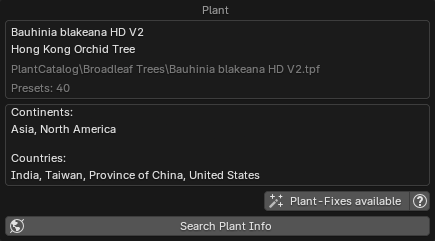
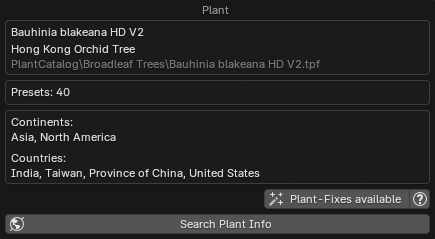
1.1.6

diff --git a/docs/extra/extra.css b/docs/extra/extra.css
@@ -46,9 +46,13 @@ h5 {
 /* ######## </ MOBILE > ######## */
 
 
-/* ######## < SHOP BUTTONS > ######## */
+/* ######## < BUTTONS > ######## */
 .md-typeset .md-button--stretch {
   width: 99%;
+  text-align: center;
+}
+.md-typeset .md-button--social {
+  width: 15em;
   text-align: center;
 }
 /* Gumroad */
@@ -59,12 +63,8 @@ h5 {
 .md-button:hover .gumroad {
   color: rgb(31, 31, 31);
 }
-/* ######## </ SHOP BUTTONS > ######## */
+/* ######## </ BUTTONS > ######## */
 
-.md-typeset .md-button--social {
-  width: 15em;
-  text-align: center;
-}
 
 /* ######## < GRID > ######## */
 /* Light mode */

diff --git a/docs/workflow/import_settings.md b/docs/workflow/import_settings.md
@@ -7,23 +7,48 @@ These settings are shared between both Import modes.
 - **Pack Textures**: Packs the textures of the imported plants into the current Blend file ensuring that your plants retain their appearance without the need for external texture files. **Cannot be disabled**.
 - **Mark as Asset**: Marks imported plants as assets, making them easily accessible in Blender's Asset Browser for future use.
     - When enabled, the asset will automatically have tags and metadata added for better organization and searchability within the Blender Asset Library. These include:
-        - Plant name (Latin & English, if available), Preset Description, Preset Name, Maturity, Health, Season, Height, Seed, LOD.
+        - Plant name (Latin & English, if available), Preset Description, Preset Name, Maturity, Health, Season, Height, Seed, Detail Level, LOD.
     !!! inline abstract "Asset Tags Example"
         ![Asset Tags Example](../images/mark_as_asset-tags.webp){ .img-box .on-glb }
 
     <div style="clear:both"></div>
 
 - **Merge duplicate Materials**: When enabled, this option ensures that imported plants reuse existing materials in the scene if names match (e.g. Leaf, Bark). This prevents Blender from generating duplicates like Leaf.001, helping maintain a cleaner and more organized material list across multiple imports.
+- **Categorize into Collections**: Automatically place imported plants into sub-collections (e.g. Broadleaf Trees, Bushes, Grass) for easier scene organization.
+
+    !!! inline abstract "Categories Example"
+        ![Asset Tags Example](../images/categorize-into-collections.webp){ .img-box .on-glb }
+
+    <div style="clear:both"></div>
+
 - **Use a custom Export path**: Set a custom export path if you need to access the files exported from PlantFactory. If this setting is not enabled, the exported files will be removed from their temporary location once they are imported into Blender.
-- **Grid Spacing**: Controls the distance between plants in the import grid when importing multiple plants at once. When importing more than 10 plants, new rows are automatically created, and if `Import Extra LODs` is enabled, each LOD will be placed on its own row.
-    - Small
-    - Medium
-    - Large
+- **Grid Spacing**: Controls the spacing multiplier between plants in the import grid when importing multiple plants at once.
+    - **S** = 0.75× spacing
+    - **M** = 1.0× (default)
+    - **L** = 1.5× spacing
+    - **XL** = 3.0× spacing
+
+    *When importing more than 10 plants, new rows are automatically created. If **Import Extra LODs** is enabled, each LOD will be placed on its own row.*
 
 
 ### Name Settings
 
-Configure how plant objects are named in Blender after import. For many settings, you'll be presented with a dropdown to choose how the selected detail should be formatted in the name. You can enable multiple options to suit your needs, but keep in mind that Blender object names are limited to 63 characters and will be truncated if they exceed this length.
+Configure how plant objects are named in Blender after import. Each setting includes a dropdown that lets you choose how the selected detail should be formatted in the name. You can enable multiple options to suit your needs, but keep in mind that Blender object names are limited to 63 characters and will be truncated if they exceed this length.
+
+All settings also include a **Wrapper** option, which controls how parameters are enclosed or separated in the name.
+
+- Available wrappers:
+    - `[]` → Square brackets
+    - `()` → Parentheses
+    - `<>` → Angle brackets
+    - `-` → Prefix with a dash
+    - `_` → Prefix with an underscore
+    - `None` → No wrapper
+
+<!-- - Some Examples:
+    - With square brackets: `Boletus edulis HD [Standard Mat 75]`
+    - With dash: `Boletus edulis HD - Standard Mat 75`
+    - With none: `Boletus edulis HD Standard Mat 75` -->
 
 The animated GIF below shows an example of adding the "Maturity" parameter and how it affects the final object name.
 
@@ -37,12 +62,18 @@ The animated GIF below shows an example of adding the "Maturity" parameter and h
     - **Add Season Name**
     - **Add Height**
     - **Add Seed**
+    - **Detail Level**: Appends the detail level (`FG, HD, LD, RT`) to the plant name.  *Note: Only applies when using English plant names and plants from the PlantCatalog library.*
     - **Add LOD**: Only available when using the [Import Extra LODs](browse_via_blender.md#lods) feature.
 
+    - **Add Spaces Between Elements**: Insert spaces between elements in the plant name. For example, `Boletus edulis HD[Standard Mat 75][Spring]` will become `Boletus edulis HD [Standard Mat 75] [Spring]`.
+
+
 === "Browse via PlantFactory"
-    ![Import Name Settings](../images/import_name_settings-via_plantfactory.gif){ .img-box align=left }
+    ![Import Name Settings](../images/import_name_settings-via_plantfactory.webp){ .img-box align=left }
 
     - **Add Maturity**
     - **Add Health**
     - **Add Season Name**
     - **Add Height**
+
+    - **Add Spaces Between Elements**: Insert spaces between elements in the plant name. For example, `Boletus edulis HD[Standard Mat 75][Spring]` will become `Boletus edulis HD [Standard Mat 75] [Spring]`.

diff --git a/docs/changelog.md b/docs/changelog.md
@@ -12,6 +12,30 @@ Here, you can find a list of all updates, enhancements, and bug fixes made to PF
 
 <div class="changelog" markdown>
 
+### 1.1.6 <small>2025-08-26</small>
+
+- **New Functionality**
+    - Added a new **Categorize into Collections** option that automatically places imported plants into sub-collections (e.g. Broadleaf Trees, Bushes, Grass) for easier scene organization. [More info](workflow/import_settings.md#general-settings)
+- **Improved Functionality**
+    - **Import Settings > Name Settings**:
+        - Completely revamped with a clearer interface and additional options. You can now choose different wrappers `() [] <>` around parameters for better customization of plant names.
+        - Added an option to include the **Detail Level** in plant names. [More info](workflow/import_settings.md#name-settings)
+        - Added a new **XL** size to the **Grid Size Adjustment**. The hover tooltip has also been updated to clarify that this setting acts as a spacing multiplier. [More info](workflow/import_settings.md#general-settings)
+    - **Plant Info Popup**: [More info](workflow/browse_via_blender.md#plant-info-popup)
+        - Now displays plant maturity for presets.
+        - The **Info** button in the main interface is now context-dependent: it shows plant information if a plant is selected, and preset information if a plant preset is selected.
+        - Layout and design have been improved for consistency.
+    - The plant **Detail Level** (FG, HD, LD, RT) is now stored with the plant object and accessible via the **Plant Details** panel after import. [More info](workflow/post_processing.md#plant-details)
+    - **Asset Tags & Metadata**: [More info](workflow/import_settings.md#general-settings)
+        - The plant **Detail Level** (FG, HD, LD, RT) is now stored as an Asset Tag when using **Mark as Asset**.
+        - Asset tags and descriptions stored when using **Mark as Asset** have been improved for better searchability in the Asset Browser.
+            - The following values are no longer stored as tags (since they are rarely used for searching) but are now appended to the **Asset description** instead: *Maturity, Health, Height*.
+            - This makes the information easily accessible when hovering over an asset in the browser, as it is displayed directly in the description after the preset description.
+- **Bug Fixes**
+    - Fixed an issue in **Import Settings > Name Settings** where some options could incorrectly be highlighted in red even when there were no problems with the selected configuration.
+
+---
+
 ### 1.1.5 <small>2025-08-20</small>
 
 - **Improved Functionality**
@@ -31,7 +55,7 @@ Here, you can find a list of all updates, enhancements, and bug fixes made to PF
     - **Queue Save & Load**: Added the ability to save and load the import queue from external `.pf2bqueue` files for easy backup and reuse. [More info](workflow/browse_via_blender.md#queue)
     - **Grid Size Adjustment**: You can now control the distance between plants in the import grid when importing multiple plants at once. [More info](workflow/import_settings.md#general-settings)
 - **Improved Functionality**
-    - **Import Settings > Name Settings**: Added new options, including Seed and LOD.
+    - **Import Settings > Name Settings**: Added new options, including Seed and LOD. [More info](workflow/import_settings.md#name-settings)
     - Seed is now added as an asset tag when using the `Mark as Asset` option.
 - **Interface**
     - Improved visibility for active Import Overrides or LODs by adding an asterisk (*) to the interface box when they are active.

diff --git a/landing-page/docs/index.md b/landing-page/docs/index.md
@@ -123,22 +123,21 @@ Additionally, the regular **PlantFactory** library features **41** plant species
 
 ---
 
-## Requirements
+
+## ⚠ Notes Before Purchasing ⚠
+
+### Requirements
 
 - Blender 4.2 or newer
 - PlantFactory 2024
 - Operating System: Windows
-
----
-
-## Notes Before Purchasing
 
 !!! warning ""
     Before purchasing, please ensure you fully understand what this addon does and its requirements. This addon relies on third-party software called **PlantFactory** (approximately 1.6 GB) to function. While PlantFactory is free, setting it up requires some additional steps, which are clearly outlined in 'Getting Started' guide. For full functionality, it is also recommended to install the **PlantCatalog** library (approximately 20 GB), which significantly enhances the range of plants available for use but may take some time to download and install.
 
 
 !!! warning ""
-    PF2B does **not** guarantee 100% compatibility with all plants. With over 23,000 presets, it is impractical to manually test and verify each one. However, most plants should import correctly without manual intervention.
+    PF2B does **not** guarantee 100% compatibility with all plants. With over 23,000 presets, it is not possible to manually test and verify each one. However, compatibility is very high, and approximately 99% of plants should import correctly without manual intervention.
 
     If you encounter issues, such as incorrect texture settings or geometry problems, [please reach out](https://pf2b.roberd.net/support/){ target="_blank" }. I will do my best to resolve them by adding plant-specific configurations to the addon.
 
@@ -153,8 +152,24 @@ Extensive documentation is available [here](https://pf2b.roberd.net/){ target="_
 
 ---
 
+<div class="section-box" markdown>
+
+## Other Add-ons by Me
+
+### BatchGenie {style="margin-bottom:0.1em;"}
+An add-on designed to simplify and automate common asset-related tasks in Blender.
+
+[![BatchGenie Addon](images/batchgenie.webp){ .img-box }](https://blendermarket.com/products/batchgenie)
+
+</div> <!-- section end -->
+
+---
+
+
 <div style="text-align: center;" markdown>
 
 *PF2B is a third-party addon and is not an official product of Bentley Systems, E-on Software, or PlantFactory. It is not affiliated with or endorsed by these companies.*{style="color:var(--md-default-fg-color--light)"}
 
 </div>
+
+

diff --git a/docs/getting_started.md b/docs/getting_started.md
@@ -16,12 +16,11 @@ tags:
 
 
 !!! warning ""
-    PF2B does **not** guarantee 100% compatibility with all plants. With over [23,000](plants.md) presets, it is impractical to manually test and verify each one. However, most plants should import correctly without manual intervention.
+    PF2B does **not** guarantee 100% compatibility with all plants. With over [23,000](plants.md) presets, it is not possible to manually test and verify each one. However, compatibility is very high, and approximately 99% of plants should import correctly without manual intervention.
 
     If you encounter issues, such as incorrect texture settings or geometry problems, [please reach out](support.md). I will do my best to resolve them by adding plant-specific configurations to the addon.
 
     **For more details, see the [PF2B: Under the Hood](support/pf2b_under_the_hood.md) page.**
-
 
 
 
